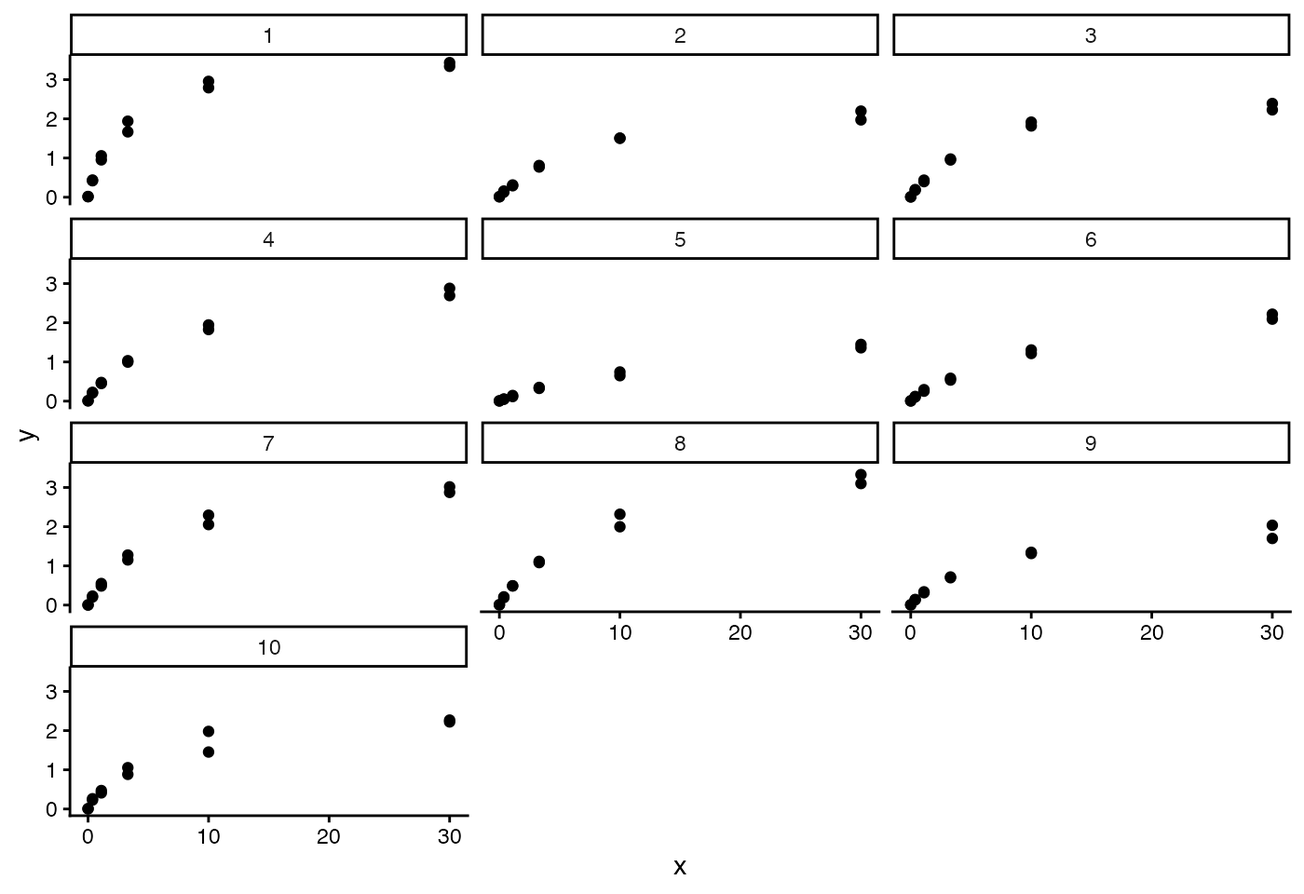
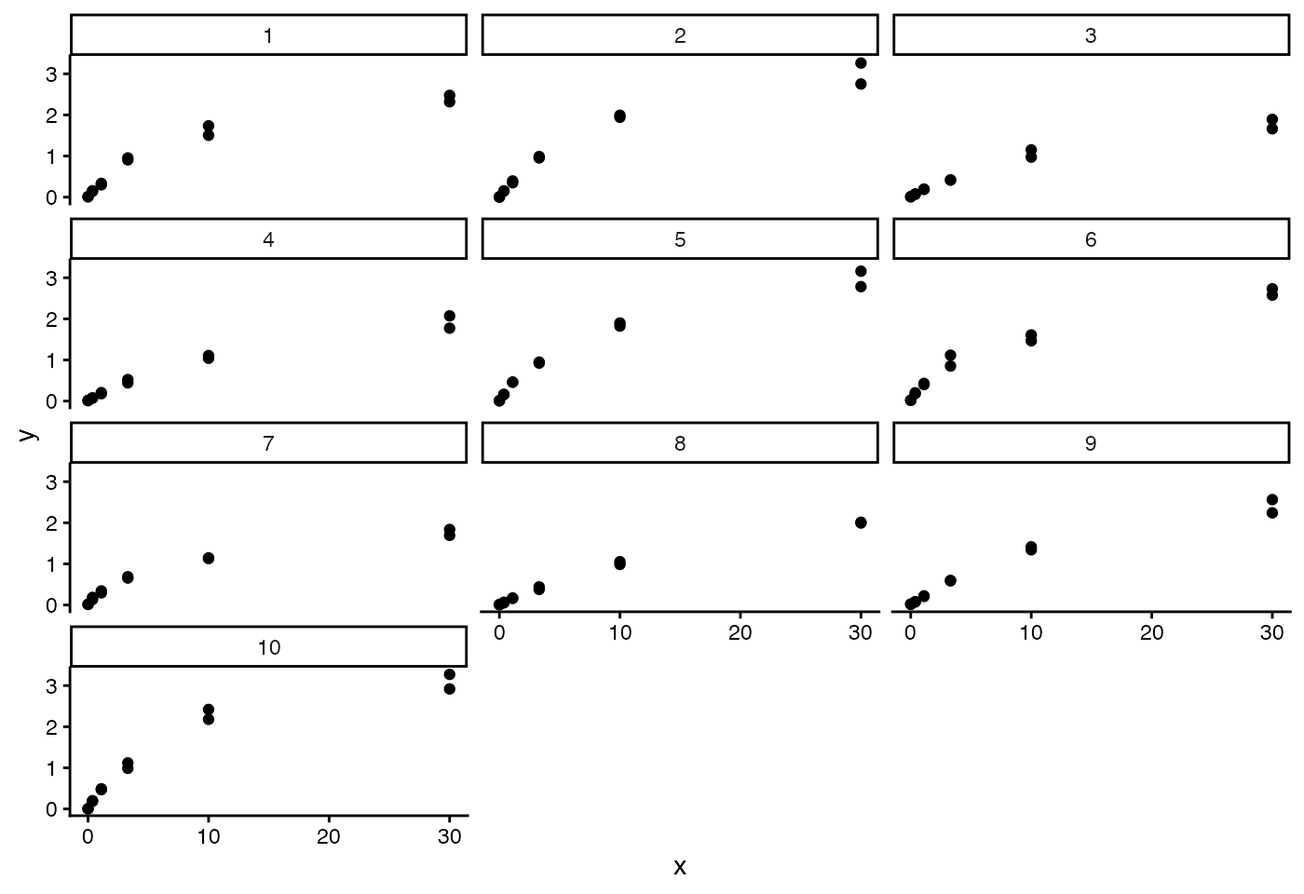
Updated site

diff --git a/docs/articles/estimation_on_simulated_data_simple.html b/docs/articles/estimation_on_simulated_data_simple.html
@@ -101,46 +101,34 @@ proxy measurement y (e.g. OD values).</p>
 <div class="section level2">
 <h2 id="simulate-data">Simulate data<a class="anchor" aria-label="anchor" href="#simulate-data"></a>
 </h2>
-<p>We simulate data, giving us a list with seven things in it. (If we
-were using real data instead of simulated data, we would simply need to
-create the <code>df_sam</code> and <code>df_cal</code> dataframes
-ourselves instead of running <code><a href="../reference/simulate_data.html">simulate_data()</a></code> below. The
-documentation for <code><a href="../reference/wrangle_data.html">wrangle_data()</a></code> explains what columns
-these dataframes require, and how sets of covariates for regression
-models are specified using the arguments
-<code>x_mix_pred_vars_names</code>, <code>p_pos_binary_pred_vars</code>,
-<code>f_pred_vars_names</code>.)</p>
+<p>We simulate data. If we were using real data instead of simulated
+data, we would simply need to create the <code>df_sam</code> and
+<code>df_cal</code> dataframes ourselves instead of running
+<code><a href="../reference/simulate_data.html">simulate_data()</a></code> below. The documentation for
+<code><a href="../reference/wrangle_data.html">wrangle_data()</a></code> explains what columns these dataframes
+require.</p>
 <div class="sourceCode" id="cb2"><pre class="downlit sourceCode r">
-<code class="sourceCode R"><span><span class="va">data</span> <span class="op">&lt;-</span> <span class="fu"><a href="../reference/simulate_data.html">simulate_data</a></span><span class="op">(</span>seed <span class="op">=</span> <span class="fl">1234</span>,</span>
-<span>                      num_sam_per_plate <span class="op">=</span> <span class="fl">100</span><span class="op">)</span></span>
+<code class="sourceCode R"><span><span class="va">data</span> <span class="op">&lt;-</span> <span class="fu"><a href="../reference/simulate_data.html">simulate_data</a></span><span class="op">(</span>seed <span class="op">=</span> <span class="fl">12345</span><span class="op">)</span></span>
 <span><span class="va">df_sam</span> <span class="op">&lt;-</span> <span class="va">data</span><span class="op">$</span><span class="va">df_sam</span></span>
 <span><span class="va">df_cal</span> <span class="op">&lt;-</span> <span class="va">data</span><span class="op">$</span><span class="va">df_cal</span></span>
 <span><span class="va">df_plate</span> <span class="op">&lt;-</span> <span class="va">data</span><span class="op">$</span><span class="va">df_plate</span></span>
-<span><span class="va">param_true_values_list</span> <span class="op">&lt;-</span> <span class="va">data</span><span class="op">$</span><span class="va">params</span></span>
-<span><span class="va">f_pred_vars_names</span> <span class="op">&lt;-</span> <span class="va">data</span><span class="op">$</span><span class="va">f_pred_vars_names</span></span>
-<span><span class="va">x_mix_pred_vars_names</span> <span class="op">&lt;-</span> <span class="va">data</span><span class="op">$</span><span class="va">x_mix_pred_vars_names</span></span>
-<span><span class="va">p_pos_binary_pred_vars</span> <span class="op">&lt;-</span> <span class="va">data</span><span class="op">$</span><span class="va">p_pos_binary_pred_vars</span></span></code></pre></div>
+<span><span class="va">param_true_values_list</span> <span class="op">&lt;-</span> <span class="va">data</span><span class="op">$</span><span class="va">params</span></span></code></pre></div>
 <p>Plot the simulated calibration data (one facet per plate):</p>
 <div class="sourceCode" id="cb3"><pre class="downlit sourceCode r">
 <code class="sourceCode R"><span><span class="fu"><a href="https://ggplot2.tidyverse.org/reference/ggplot.html" class="external-link">ggplot</a></span><span class="op">(</span><span class="va">df_cal</span><span class="op">)</span> <span class="op">+</span></span>
 <span>  <span class="fu"><a href="https://ggplot2.tidyverse.org/reference/geom_point.html" class="external-link">geom_point</a></span><span class="op">(</span><span class="fu"><a href="https://ggplot2.tidyverse.org/reference/aes.html" class="external-link">aes</a></span><span class="op">(</span>x <span class="op">=</span> <span class="va">x</span>, y <span class="op">=</span> <span class="va">y</span><span class="op">)</span><span class="op">)</span> <span class="op">+</span></span>
 <span>  <span class="fu"><a href="https://ggplot2.tidyverse.org/reference/facet_wrap.html" class="external-link">facet_wrap</a></span><span class="op">(</span><span class="op">~</span><span class="va">plate</span>, ncol <span class="op">=</span> <span class="fl">3</span><span class="op">)</span> </span></code></pre></div>
 <p><img src="estimation_on_simulated_data_simple_files/figure-html/plot_data_cal-1.png" class="r-plt" alt="" width="700"></p>
-<p>Plot the simulated sample data, histogramming the x and y values, one
-facet for each category of the <code>letter</code> covariate (which
-differ in their x distributions when using default arguments for
-<code><a href="../reference/simulate_data.html">simulate_data()</a></code>):</p>
+<p>Plot the simulated sample data, histogramming the x and y values:</p>
 <div class="sourceCode" id="cb4"><pre class="downlit sourceCode r">
 <code class="sourceCode R"><span><span class="fu"><a href="https://ggplot2.tidyverse.org/reference/ggplot.html" class="external-link">ggplot</a></span><span class="op">(</span><span class="va">df_sam</span><span class="op">)</span> <span class="op">+</span></span>
-<span>  <span class="fu"><a href="https://ggplot2.tidyverse.org/reference/geom_histogram.html" class="external-link">geom_histogram</a></span><span class="op">(</span><span class="fu"><a href="https://ggplot2.tidyverse.org/reference/aes.html" class="external-link">aes</a></span><span class="op">(</span>x <span class="op">=</span> <span class="va">x</span><span class="op">)</span>, bins <span class="op">=</span> <span class="fl">20</span><span class="op">)</span> <span class="op">+</span></span>
-<span>  <span class="fu"><a href="https://ggplot2.tidyverse.org/reference/facet_wrap.html" class="external-link">facet_wrap</a></span><span class="op">(</span><span class="op">~</span><span class="va">letter</span><span class="op">)</span> <span class="op">+</span></span>
+<span>  <span class="fu"><a href="https://ggplot2.tidyverse.org/reference/geom_histogram.html" class="external-link">geom_histogram</a></span><span class="op">(</span><span class="fu"><a href="https://ggplot2.tidyverse.org/reference/aes.html" class="external-link">aes</a></span><span class="op">(</span>x <span class="op">=</span> <span class="va">x</span><span class="op">)</span>, bins <span class="op">=</span> <span class="fl">30</span><span class="op">)</span> <span class="op">+</span></span>
 <span>  <span class="fu"><a href="https://ggplot2.tidyverse.org/reference/scale_continuous.html" class="external-link">scale_x_log10</a></span><span class="op">(</span><span class="op">)</span></span></code></pre></div>
 <p><img src="estimation_on_simulated_data_simple_files/figure-html/plot_data_sam_x-1.png" class="r-plt" alt="" width="700"></p>
 <div class="sourceCode" id="cb5"><pre class="downlit sourceCode r">
 <code class="sourceCode R"><span><span class="co"># With default values, y is rarely negative; restrict to positive for visibility</span></span>
 <span><span class="fu"><a href="https://ggplot2.tidyverse.org/reference/ggplot.html" class="external-link">ggplot</a></span><span class="op">(</span><span class="va">df_sam</span> <span class="op"><a href="https://magrittr.tidyverse.org/reference/pipe.html" class="external-link">%&gt;%</a></span> <span class="fu"><a href="https://dplyr.tidyverse.org/reference/filter.html" class="external-link">filter</a></span><span class="op">(</span><span class="va">y</span> <span class="op">&gt;</span> <span class="fl">0</span><span class="op">)</span><span class="op">)</span> <span class="op">+</span></span>
-<span>  <span class="fu"><a href="https://ggplot2.tidyverse.org/reference/geom_histogram.html" class="external-link">geom_histogram</a></span><span class="op">(</span><span class="fu"><a href="https://ggplot2.tidyverse.org/reference/aes.html" class="external-link">aes</a></span><span class="op">(</span>x <span class="op">=</span> <span class="va">y</span><span class="op">)</span>, bins <span class="op">=</span> <span class="fl">20</span><span class="op">)</span> <span class="op">+</span></span>
-<span>  <span class="fu"><a href="https://ggplot2.tidyverse.org/reference/facet_wrap.html" class="external-link">facet_wrap</a></span><span class="op">(</span><span class="op">~</span><span class="va">letter</span><span class="op">)</span> <span class="op">+</span></span>
+<span>  <span class="fu"><a href="https://ggplot2.tidyverse.org/reference/geom_histogram.html" class="external-link">geom_histogram</a></span><span class="op">(</span><span class="fu"><a href="https://ggplot2.tidyverse.org/reference/aes.html" class="external-link">aes</a></span><span class="op">(</span>x <span class="op">=</span> <span class="va">y</span><span class="op">)</span>, bins <span class="op">=</span> <span class="fl">30</span><span class="op">)</span> <span class="op">+</span></span>
 <span>  <span class="fu"><a href="https://ggplot2.tidyverse.org/reference/scale_continuous.html" class="external-link">scale_x_log10</a></span><span class="op">(</span><span class="op">)</span></span></code></pre></div>
 <p><img src="estimation_on_simulated_data_simple_files/figure-html/plot_data_sam_y-1.png" class="r-plt" alt="" width="700"></p>
 </div>
@@ -157,11 +145,7 @@ differ in their x distributions when using default arguments for
 <span>  df_cal <span class="op">=</span> <span class="va">df_cal</span>, </span>
 <span>  df_priors_scalars <span class="op">=</span> <span class="va">priors_list</span><span class="op">$</span><span class="va">df_priors_scalars</span>,</span>
 <span>  df_priors_vectors <span class="op">=</span> <span class="va">priors_list</span><span class="op">$</span><span class="va">df_priors_vectors</span>, </span>
-<span>  rho_prior_eta <span class="op">=</span> <span class="va">priors_list</span><span class="op">$</span><span class="va">rho_prior_eta</span>, </span>
-<span>  x_mix_pred_vars_names <span class="op">=</span> <span class="va">x_mix_pred_vars_names</span>, </span>
-<span>  p_pos_binary_pred_vars <span class="op">=</span> <span class="va">p_pos_binary_pred_vars</span>,</span>
-<span>  f_pred_vars_names <span class="op">=</span> <span class="va">f_pred_vars_names</span></span>
-<span>  <span class="op">)</span></span></code></pre></div>
+<span>  rho_prior_eta <span class="op">=</span> <span class="va">priors_list</span><span class="op">$</span><span class="va">rho_prior_eta</span><span class="op">)</span></span></code></pre></div>
 <p>Update our dataframes for samples, calibrators and plates with the
 extra columns we just added (which introduce integer indexing); this can
 be helpful later if we want to combine results and data.</p>
@@ -174,13 +158,10 @@ from the prior. (We wrap inside <code><a href="https://rdrr.io/r/utils/capture.o
 suppress Stan’s insistent printing of information.)</p>
 <div class="sourceCode" id="cb9"><pre class="downlit sourceCode r">
 <code class="sourceCode R"><span><span class="fu"><a href="https://rdrr.io/r/utils/capture.output.html" class="external-link">capture.output</a></span><span class="op">(</span><span class="op">{</span></span>
-<span><span class="va">df_posterior</span> <span class="op">&lt;-</span> <span class="fu"><a href="../reference/run_stan.html">run_stan</a></span><span class="op">(</span></span>
-<span>  data_wrangled <span class="op">=</span> <span class="va">data_wrangled</span>,</span>
-<span>  distribution <span class="op">=</span> <span class="st">"posterior"</span><span class="op">)</span></span>
+<span><span class="va">df_posterior</span> <span class="op">&lt;-</span> <span class="fu"><a href="../reference/run_stan.html">run_stan</a></span><span class="op">(</span>data_wrangled <span class="op">=</span> <span class="va">data_wrangled</span><span class="op">)</span></span>
 <span></span>
-<span><span class="va">df_prior</span> <span class="op">&lt;-</span> <span class="fu"><a href="../reference/run_stan.html">run_stan</a></span><span class="op">(</span></span>
-<span>  data_wrangled <span class="op">=</span> <span class="va">data_wrangled</span>,</span>
-<span>  distribution <span class="op">=</span> <span class="st">"prior"</span><span class="op">)</span></span>
+<span><span class="va">df_prior</span> <span class="op">&lt;-</span> <span class="fu"><a href="../reference/run_stan.html">run_stan</a></span><span class="op">(</span>data_wrangled <span class="op">=</span> <span class="va">data_wrangled</span>, </span>
+<span>                     distribution <span class="op">=</span> <span class="st">"prior"</span><span class="op">)</span></span>
 <span><span class="op">}</span><span class="op">)</span></span></code></pre></div>
 </div>
 <div class="section level2">
@@ -200,13 +181,13 @@ prior and true value, demonstrating that the posterior moves away from
 the prior toward the true value, as it should for a correctly
 implemented model with informative data. One should always test this. We
 do this using <code>plot_posterior()</code> from our package
-<code>mastiff</code>, just for nine parameters for better visibility
+<code>mastiff</code>, just for 16 parameters for better visibility
 within Rmarkdown:</p>
 <div class="sourceCode" id="cb11"><pre class="downlit sourceCode r">
 <code class="sourceCode R"><span><span class="fu">mastiff</span><span class="fu">::</span><span class="fu"><a href="https://bdi-pathogens.github.io/mastiff/reference/plot_posterior.html" class="external-link">plot_posterior</a></span><span class="op">(</span></span>
 <span>    posterior_samples <span class="op">=</span> <span class="va">df_posterior</span>,</span>
 <span>    prior_samples     <span class="op">=</span> <span class="va">df_prior</span>,</span>
-<span>    params_desired <span class="op">=</span> <span class="fu"><a href="https://rdrr.io/r/base/names.html" class="external-link">names</a></span><span class="op">(</span><span class="va">df_prior</span><span class="op">)</span><span class="op">[</span><span class="fl">1</span><span class="op">:</span><span class="fl">9</span><span class="op">]</span>,</span>
+<span>    params_desired <span class="op">=</span> <span class="fu"><a href="https://rdrr.io/r/base/names.html" class="external-link">names</a></span><span class="op">(</span><span class="va">df_prior</span><span class="op">)</span><span class="op">[</span><span class="fl">1</span><span class="op">:</span><span class="fl">16</span><span class="op">]</span>,</span>
 <span>    true_param_values <span class="op">=</span> <span class="va">param_true_values_vector</span>,</span>
 <span>    skip_stanfit_to_dt <span class="op">=</span> <span class="cn">TRUE</span><span class="op">)</span></span></code></pre></div>
 <p><img src="estimation_on_simulated_data_simple_files/figure-html/plot_posterior_prior-1.png" class="r-plt" alt="" width="95%"></p>
@@ -246,54 +227,19 @@ effects.</p>
 <p><code>df_posterior</code> has columns named
 <code>y_sam_sim_unconditional[1]</code>,
 <code>y_sam_sim_unconditional[2]</code> etc. which contain posterior
-predicted y values for new set of sampled individuals with the same
-distribution of covariates (i.e. partitioned into the same
-subpopulations, in this example based on a single covariate
-<code>letter</code>) as in the dataset analysed. The integer in square
-brackets indexes the sample replicate as in
-<code>df_sam$which_sam_rep</code>; we merge <code>df_sam</code> into
-<code>df_posterior</code> to associated each predicted <code>y</code>
-value with the appropriate subpopulation. We plot the empirical
-subpopulation-level distributions of y values, and the posterior
-predictive distribution of subpopulation-level distributions of y
-values. We use a log scale for y even though it can be negative, because
-with our default parameters it’s only rarely negative and a log scale is
-clearer. We make both a spline density plot and also a histogram
-(splines are easier to see but the algorithm may make mistakes on
-fitting a smoothed distribution).</p>
+predicted y values for new set of sampled individuals. The integer in
+square brackets indexes the sample replicate as in
+<code>df_sam$which_sam_rep</code>. We plot the empirical
+population-level distribution of y values (in blue), and the posterior
+predictive distribution of the same thing (in black, one line per sample
+from the posterior predictive distribution).</p>
 <div class="sourceCode" id="cb13"><pre class="downlit sourceCode r">
 <code class="sourceCode R"><span><span class="va">df_y_sim</span> <span class="op">&lt;-</span> <span class="va">df_posterior</span> <span class="op"><a href="https://magrittr.tidyverse.org/reference/pipe.html" class="external-link">%&gt;%</a></span></span>
 <span>  <span class="fu"><a href="https://dplyr.tidyverse.org/reference/select.html" class="external-link">select</a></span><span class="op">(</span><span class="fu"><a href="https://tidyselect.r-lib.org/reference/starts_with.html" class="external-link">starts_with</a></span><span class="op">(</span><span class="st">"y_sam_sim_unconditional["</span><span class="op">)</span><span class="op">)</span> <span class="op"><a href="https://magrittr.tidyverse.org/reference/pipe.html" class="external-link">%&gt;%</a></span></span>
 <span>  <span class="fu"><a href="https://dplyr.tidyverse.org/reference/mutate.html" class="external-link">mutate</a></span><span class="op">(</span>sample <span class="op">=</span> <span class="fu"><a href="https://dplyr.tidyverse.org/reference/row_number.html" class="external-link">row_number</a></span><span class="op">(</span><span class="op">)</span><span class="op">)</span> <span class="op"><a href="https://magrittr.tidyverse.org/reference/pipe.html" class="external-link">%&gt;%</a></span></span>
 <span>  <span class="fu"><a href="https://tidyr.tidyverse.org/reference/pivot_longer.html" class="external-link">pivot_longer</a></span><span class="op">(</span><span class="op">-</span><span class="fu"><a href="https://rdrr.io/r/base/c.html" class="external-link">c</a></span><span class="op">(</span><span class="st">"sample"</span><span class="op">)</span>, names_to <span class="op">=</span> <span class="st">"param"</span><span class="op">)</span> <span class="op"><a href="https://magrittr.tidyverse.org/reference/pipe.html" class="external-link">%&gt;%</a></span></span>
-<span>  <span class="fu">tidyr</span><span class="fu">::</span><span class="fu"><a href="https://tidyr.tidyverse.org/reference/extract.html" class="external-link">extract</a></span><span class="op">(</span><span class="va">param</span>, </span>
-<span>               into <span class="op">=</span> <span class="st">"which_sam_rep"</span>, </span>
-<span>               regex <span class="op">=</span> <span class="st">"y_sam_sim_unconditional\\[([0-9]+)\\]"</span><span class="op">)</span> <span class="op"><a href="https://magrittr.tidyverse.org/reference/pipe.html" class="external-link">%&gt;%</a></span></span>
-<span>  <span class="fu"><a href="https://dplyr.tidyverse.org/reference/mutate.html" class="external-link">mutate</a></span><span class="op">(</span>which_sam_rep <span class="op">=</span> <span class="fu"><a href="https://rdrr.io/r/base/integer.html" class="external-link">as.integer</a></span><span class="op">(</span><span class="va">which_sam_rep</span><span class="op">)</span><span class="op">)</span> <span class="op"><a href="https://magrittr.tidyverse.org/reference/pipe.html" class="external-link">%&gt;%</a></span></span>
-<span>  <span class="fu"><a href="https://dplyr.tidyverse.org/reference/mutate-joins.html" class="external-link">left_join</a></span><span class="op">(</span><span class="va">df_sam</span>, by <span class="op">=</span> <span class="st">"which_sam_rep"</span><span class="op">)</span> <span class="op"><a href="https://magrittr.tidyverse.org/reference/pipe.html" class="external-link">%&gt;%</a></span></span>
 <span>  <span class="fu"><a href="https://dplyr.tidyverse.org/reference/mutate.html" class="external-link">mutate</a></span><span class="op">(</span>value <span class="op">=</span> <span class="fu"><a href="https://rdrr.io/r/base/Log.html" class="external-link">log10</a></span><span class="op">(</span><span class="va">value</span><span class="op">)</span><span class="op">)</span></span>
 <span><span class="fu"><a href="https://ggplot2.tidyverse.org/reference/ggplot.html" class="external-link">ggplot</a></span><span class="op">(</span><span class="op">)</span> <span class="op">+</span></span>
-<span>  <span class="fu"><a href="https://ggplot2.tidyverse.org/reference/geom_path.html" class="external-link">geom_step</a></span><span class="op">(</span>data <span class="op">=</span> <span class="va">df_y_sim</span>,</span>
-<span>            <span class="fu"><a href="https://ggplot2.tidyverse.org/reference/aes.html" class="external-link">aes</a></span><span class="op">(</span>x <span class="op">=</span> <span class="va">value</span>,</span>
-<span>                y <span class="op">=</span> <span class="fu"><a href="https://ggplot2.tidyverse.org/reference/aes_eval.html" class="external-link">after_stat</a></span><span class="op">(</span><span class="va">density</span><span class="op">)</span>,</span>
-<span>                group <span class="op">=</span> <span class="va">sample</span><span class="op">)</span>,</span>
-<span>            stat<span class="op">=</span><span class="st">"bin"</span>,</span>
-<span>            color<span class="op">=</span><span class="st">"black"</span>,</span>
-<span>            bins <span class="op">=</span> <span class="fl">60</span>,</span>
-<span>            alpha <span class="op">=</span> <span class="fl">0.1</span><span class="op">)</span> <span class="op">+</span></span>
-<span>  <span class="fu"><a href="https://ggplot2.tidyverse.org/reference/geom_path.html" class="external-link">geom_step</a></span><span class="op">(</span>data <span class="op">=</span> <span class="va">df_sam</span>,</span>
-<span>            <span class="fu"><a href="https://ggplot2.tidyverse.org/reference/aes.html" class="external-link">aes</a></span><span class="op">(</span>x <span class="op">=</span> <span class="fu"><a href="https://rdrr.io/r/base/Log.html" class="external-link">log10</a></span><span class="op">(</span><span class="va">y</span><span class="op">)</span>, <span class="co"># y,</span></span>
-<span>                y <span class="op">=</span> <span class="fu"><a href="https://ggplot2.tidyverse.org/reference/aes_eval.html" class="external-link">after_stat</a></span><span class="op">(</span><span class="va">density</span><span class="op">)</span><span class="op">)</span>,</span>
-<span>            stat<span class="op">=</span><span class="st">"bin"</span>,</span>
-<span>            bins <span class="op">=</span> <span class="fl">60</span>,</span>
-<span>            color<span class="op">=</span><span class="st">"blue"</span><span class="op">)</span> <span class="op">+</span></span>
-<span>  <span class="fu"><a href="https://ggplot2.tidyverse.org/reference/coord_cartesian.html" class="external-link">coord_cartesian</a></span><span class="op">(</span>expand <span class="op">=</span> <span class="cn">F</span><span class="op">)</span> <span class="op">+</span></span>
-<span>  <span class="fu"><a href="https://ggplot2.tidyverse.org/reference/facet_wrap.html" class="external-link">facet_wrap</a></span><span class="op">(</span><span class="op">~</span><span class="va">letter</span><span class="op">)</span> <span class="op">+</span></span>
-<span>  <span class="fu"><a href="https://ggplot2.tidyverse.org/reference/labs.html" class="external-link">labs</a></span><span class="op">(</span>x <span class="op">=</span> <span class="st">"log10(OD value)"</span>,</span>
-<span>       y <span class="op">=</span> <span class="st">"probability density"</span><span class="op">)</span></span></code></pre></div>
-<p><img src="estimation_on_simulated_data_simple_files/figure-html/plot_posterior_retrodictive-1.png" class="r-plt" alt="" width="700"></p>
-<div class="sourceCode" id="cb14"><pre class="downlit sourceCode r">
-<code class="sourceCode R"><span><span class="fu"><a href="https://ggplot2.tidyverse.org/reference/ggplot.html" class="external-link">ggplot</a></span><span class="op">(</span><span class="op">)</span> <span class="op">+</span></span>
 <span>  <span class="fu"><a href="https://ggplot2.tidyverse.org/reference/geom_density.html" class="external-link">geom_density</a></span><span class="op">(</span>data <span class="op">=</span> <span class="va">df_y_sim</span>,</span>
 <span>               <span class="fu"><a href="https://ggplot2.tidyverse.org/reference/aes.html" class="external-link">aes</a></span><span class="op">(</span>x <span class="op">=</span> <span class="va">value</span>,</span>
 <span>                   group <span class="op">=</span> <span class="va">sample</span><span class="op">)</span>,</span>
@@ -302,10 +248,9 @@ fitting a smoothed distribution).</p>
 <span>            <span class="fu"><a href="https://ggplot2.tidyverse.org/reference/aes.html" class="external-link">aes</a></span><span class="op">(</span>x <span class="op">=</span> <span class="fu"><a href="https://rdrr.io/r/base/Log.html" class="external-link">log10</a></span><span class="op">(</span><span class="va">y</span><span class="op">)</span><span class="op">)</span>,</span>
 <span>            color<span class="op">=</span><span class="st">"blue"</span><span class="op">)</span> <span class="op">+</span></span>
 <span>  <span class="fu"><a href="https://ggplot2.tidyverse.org/reference/coord_cartesian.html" class="external-link">coord_cartesian</a></span><span class="op">(</span>expand <span class="op">=</span> <span class="cn">F</span><span class="op">)</span> <span class="op">+</span></span>
-<span>  <span class="fu"><a href="https://ggplot2.tidyverse.org/reference/facet_wrap.html" class="external-link">facet_wrap</a></span><span class="op">(</span><span class="op">~</span><span class="va">letter</span><span class="op">)</span> <span class="op">+</span></span>
 <span>  <span class="fu"><a href="https://ggplot2.tidyverse.org/reference/labs.html" class="external-link">labs</a></span><span class="op">(</span>x <span class="op">=</span> <span class="st">"log10(OD value)"</span>,</span>
 <span>       y <span class="op">=</span> <span class="st">"probability density"</span><span class="op">)</span></span></code></pre></div>
-<p><img src="estimation_on_simulated_data_simple_files/figure-html/plot_posterior_retrodictive-2.png" class="r-plt" alt="" width="700"></p>
+<p><img src="estimation_on_simulated_data_simple_files/figure-html/plot_posterior_retrodictive-1.png" class="r-plt" alt="" width="700"></p>
 <p><code>df_posterior</code> has columns named
 <code>p_sam_is_pos[1]</code>, <code>p_sam_is_pos[2]</code> etc. which
 contain the probability that sample 1, 2 etc. is positive given its
@@ -313,7 +258,7 @@ observed y values. Calculate the posterior mean for each of these
 quantities, and then plot the distribution over individuals of these
 values, stratified by true serostatus. This gives a sense of the model’s
 accuracy and confidence in estimating serostatus.</p>
-<div class="sourceCode" id="cb15"><pre class="downlit sourceCode r">
+<div class="sourceCode" id="cb14"><pre class="downlit sourceCode r">
 <code class="sourceCode R"><span><span class="va">df_prob_pos</span> <span class="op">&lt;-</span> <span class="va">df_posterior</span> <span class="op"><a href="https://magrittr.tidyverse.org/reference/pipe.html" class="external-link">%&gt;%</a></span></span>
 <span>  <span class="fu"><a href="https://dplyr.tidyverse.org/reference/select.html" class="external-link">select</a></span><span class="op">(</span><span class="fu"><a href="https://tidyselect.r-lib.org/reference/starts_with.html" class="external-link">starts_with</a></span><span class="op">(</span><span class="st">"p_sam_is_pos["</span><span class="op">)</span><span class="op">)</span></span>
 <span><span class="va">df_prob_pos</span> <span class="op">&lt;-</span> <span class="va">df_prob_pos</span><span class="op">[</span>, <span class="fu"><a href="https://rdrr.io/r/base/lapply.html" class="external-link">lapply</a></span><span class="op">(</span><span class="va">.SD</span>, <span class="va">mean</span><span class="op">)</span><span class="op">]</span></span>

diff --git a/docs/reference/simulate_data.html b/docs/reference/simulate_data.html
@@ -76,15 +76,13 @@
 <span>  rho <span class="op">=</span> <span class="fu"><a href="https://rdrr.io/r/base/matrix.html" class="external-link">matrix</a></span><span class="op">(</span><span class="fu"><a href="https://rdrr.io/r/base/c.html" class="external-link">c</a></span><span class="op">(</span><span class="fl">1</span>, <span class="fl">0</span>, <span class="fl">0</span>, <span class="fl">0</span>, <span class="fl">0</span>, <span class="fl">1</span>, <span class="fl">0</span>, <span class="fl">0</span>, <span class="fl">0</span>, <span class="fl">0</span>, <span class="fl">1</span>, <span class="fl">0</span>, <span class="fl">0</span>, <span class="fl">0</span>, <span class="fl">0</span>, <span class="fl">1</span><span class="op">)</span>, <span class="fl">4</span>, <span class="fl">4</span>, byrow <span class="op">=</span> <span class="cn">TRUE</span><span class="op">)</span>,</span>
 <span>  f_pred_vars <span class="op">=</span> <span class="fu"><a href="https://rdrr.io/r/base/list.html" class="external-link">list</a></span><span class="op">(</span><span class="op">)</span>,</span>
 <span>  sigma_f_pred_vars <span class="op">=</span> <span class="fu"><a href="https://rdrr.io/r/base/list.html" class="external-link">list</a></span><span class="op">(</span><span class="op">)</span>,</span>
-<span>  x_mix_pred_vars <span class="op">=</span> <span class="fu"><a href="https://rdrr.io/r/base/list.html" class="external-link">list</a></span><span class="op">(</span>p_pos <span class="op">=</span> <span class="fu"><a href="https://rdrr.io/r/base/list.html" class="external-link">list</a></span><span class="op">(</span>letter <span class="op">=</span> <span class="va">letters</span><span class="op">[</span><span class="fl">1</span><span class="op">:</span><span class="fl">4</span><span class="op">]</span><span class="op">)</span>, mu_neg <span class="op">=</span> <span class="fu"><a href="https://rdrr.io/r/base/list.html" class="external-link">list</a></span><span class="op">(</span>letter <span class="op">=</span></span>
-<span>    <span class="va">letters</span><span class="op">[</span><span class="fl">1</span><span class="op">:</span><span class="fl">4</span><span class="op">]</span><span class="op">)</span>, mu_pos <span class="op">=</span> <span class="fu"><a href="https://rdrr.io/r/base/list.html" class="external-link">list</a></span><span class="op">(</span>letter <span class="op">=</span> <span class="va">letters</span><span class="op">[</span><span class="fl">1</span><span class="op">:</span><span class="fl">4</span><span class="op">]</span><span class="op">)</span>, sd_neg <span class="op">=</span> <span class="fu"><a href="https://rdrr.io/r/base/list.html" class="external-link">list</a></span><span class="op">(</span>letter <span class="op">=</span></span>
-<span>    <span class="va">letters</span><span class="op">[</span><span class="fl">1</span><span class="op">:</span><span class="fl">4</span><span class="op">]</span><span class="op">)</span>, sd_pos <span class="op">=</span> <span class="fu"><a href="https://rdrr.io/r/base/list.html" class="external-link">list</a></span><span class="op">(</span>letter <span class="op">=</span> <span class="va">letters</span><span class="op">[</span><span class="fl">1</span><span class="op">:</span><span class="fl">4</span><span class="op">]</span><span class="op">)</span><span class="op">)</span>,</span>
-<span>  x_mix_pred_vars_sds <span class="op">=</span> <span class="fu"><a href="https://rdrr.io/r/base/list.html" class="external-link">list</a></span><span class="op">(</span>p_pos <span class="op">=</span> <span class="fu"><a href="https://rdrr.io/r/base/c.html" class="external-link">c</a></span><span class="op">(</span>letter <span class="op">=</span> <span class="fl">1</span><span class="op">)</span>, mu_neg <span class="op">=</span> <span class="fu"><a href="https://rdrr.io/r/base/c.html" class="external-link">c</a></span><span class="op">(</span>letter <span class="op">=</span> <span class="fl">1</span><span class="op">)</span>, mu_pos <span class="op">=</span></span>
-<span>    <span class="fu"><a href="https://rdrr.io/r/base/c.html" class="external-link">c</a></span><span class="op">(</span>letter <span class="op">=</span> <span class="fl">1</span><span class="op">)</span>, sd_neg <span class="op">=</span> <span class="fu"><a href="https://rdrr.io/r/base/c.html" class="external-link">c</a></span><span class="op">(</span>letter <span class="op">=</span> <span class="fl">0.2</span><span class="op">)</span>, sd_pos <span class="op">=</span> <span class="fu"><a href="https://rdrr.io/r/base/c.html" class="external-link">c</a></span><span class="op">(</span>letter <span class="op">=</span> <span class="fl">0.2</span><span class="op">)</span><span class="op">)</span>,</span>
+<span>  x_mix_pred_vars <span class="op">=</span> <span class="fu"><a href="https://rdrr.io/r/base/list.html" class="external-link">list</a></span><span class="op">(</span><span class="op">)</span>,</span>
+<span>  x_mix_pred_vars_sds <span class="op">=</span> <span class="fu"><a href="https://rdrr.io/r/base/list.html" class="external-link">list</a></span><span class="op">(</span><span class="op">)</span>,</span>
 <span>  x_mix_effects <span class="op">=</span> <span class="cn">NA</span>,</span>
-<span>  p_pos_binary_effects <span class="op">=</span> <span class="fu"><a href="https://rdrr.io/r/base/c.html" class="external-link">c</a></span><span class="op">(</span>boolA <span class="op">=</span> <span class="op">-</span><span class="fl">2</span>, boolB <span class="op">=</span> <span class="fl">0</span>, boolC <span class="op">=</span> <span class="fl">2</span><span class="op">)</span>,</span>
+<span>  p_pos_binary_effects <span class="op">=</span> <span class="fu"><a href="https://rdrr.io/r/base/numeric.html" class="external-link">numeric</a></span><span class="op">(</span><span class="op">)</span>,</span>
 <span>  y_obs_sd_min_log_shift_sd <span class="op">=</span> <span class="fl">0</span>,</span>
-<span>  y_obs_sd_jump_log_shift_sd <span class="op">=</span> <span class="fl">0</span></span>
+<span>  y_obs_sd_jump_log_shift_sd <span class="op">=</span> <span class="fl">0</span>,</span>
+<span>  p_pos_exact <span class="op">=</span> <span class="cn">FALSE</span></span>
 <span><span class="op">)</span></span></code></pre></div>
     </div>
 
@@ -203,22 +201,36 @@ variable.</p></dd>
 
 
 <dt id="arg-x-mix-pred-vars">x_mix_pred_vars<a class="anchor" aria-label="anchor" href="#arg-x-mix-pred-vars"></a></dt>
-<dd><p>a list (whose names are the parameters p_pos, mu_neg,
-mu_pos, sd_neg, sd_pos) of lists (whose names are the names of categorical
-variables) of character vectors (whose values are the different categories
-of a given categorical variable). Each parameter has a regression model
-specified by additively combining its categorical variables. For each
-categorical variable, each sample has one of the categories randomly
-allocated.</p></dd>
+<dd><p>a list (of length between 0 and 5 inclusive; the names
+of the list should be a subset of the 5 parameters <code>p_pos</code>, <code>mu_neg</code>,
+<code>mu_pos</code>, <code>sd_neg</code>, <code>sd_pos</code>) of lists (whose names are the names of
+categorical variables) of character vectors (whose values are the different
+categories of a given categorical variable). Each of the 5 parameters has a
+regression model specified by additively combining its categorical
+variables (or no regression model is used if that parameter is absent from
+the list). For each categorical variable, each sample has one of the
+categories randomly allocated. For example say you set <code>x_mix_pred_vars =</code>
+<code>list(p_pos = list(age = c("0-17", "18-49", "50+"), place = letters[1:4]),</code>
+<code>sd_pos = list(age = c("0-17", "18-49", "50+")))</code>. We randomly assign
+every sample a value of <code>age</code> from the possibilities <code>c("0-17", "18-49",</code>
+<code>"50+")</code>, and a value of <code>place</code> from the possibilities <code>letters[1:4]</code>.
+<code>p_pos</code> varies with <code>age</code> and <code>place</code>; <code>sd_pos</code> varies with <code>age</code>; and
+<code>mu_pos</code>, <code>mu_neg</code> and <code>sd_neg</code> are the same for all individuals. Use of
+this argument must be synchronised with use of <code>x_mix_pred_vars_sds</code>.</p></dd>
 
 
 <dt id="arg-x-mix-pred-vars-sds">x_mix_pred_vars_sds<a class="anchor" aria-label="anchor" href="#arg-x-mix-pred-vars-sds"></a></dt>
-<dd><p>a list (whose names are the parameters p_pos,
-mu_neg, mu_pos, sd_neg, sd_pos) of named numeric vectors (whose names must
-match the categorical variables named in the inner lists of
-<code>x_mix_pred_vars</code>). Each {name, numeric value} pair within one of these
-vectors specifies the scale of variability between the regression
-coefficients for the different categories of named categorical variable.</p></dd>
+<dd><p>a list (whose names match those of
+<code>x_mix_pred_vars</code>) of named numeric vectors (whose names must match the
+categorical variables named in the inner lists of <code>x_mix_pred_vars</code>). Each
+{name, numeric value} pair within one of these vectors specifies the
+scale of variability between the regression coefficients for the different
+categories of named categorical variable. Continuing the same example for
+<code>x_mix_pred_vars</code> above, say you set <code>x_mix_pred_vars_sds = list(p_pos =</code>
+<code>c(age = 1, place = 0.1), sd_pos = c(age = 0.5))</code>. The regression
+coefficients for the effect of each age group on <code>p_pos</code> (or <code>sd_pos</code>) will
+vary with a scale 1 (or 0.5 respectively), and the regression coefficients
+for the effect of each place on <code>p_pos</code> will vary with a scale 0.1.</p></dd>
 
 
 <dt id="arg-x-mix-effects">x_mix_effects<a class="anchor" aria-label="anchor" href="#arg-x-mix-effects"></a></dt>
@@ -261,6 +273,10 @@ y_obs_sd_sam_jump between plates. Beware: such variability is assumed to be
 zero in the inference model, so values greater than the default of zero
 will introduce model misspecification for inference (which may be of
 interest for testing purposes).</p></dd>
+
+
+<dt id="arg-p-pos-exact">p_pos_exact<a class="anchor" aria-label="anchor" href="#arg-p-pos-exact"></a></dt>
+<dd><p>a single logical value: should we simulate exactly a fraction <code>p_pos</code> of samples being positive, as opposed to the default behaviour of each sample having an independent probabiliy <code>p_pos</code> of being positive? This option is only available if no regression model is specified for <code>p_pos</code>.</p></dd>
 
 </dl></div>
     <div id="value">

diff --git a/docs/reference/run_stan.html b/docs/reference/run_stan.html
@@ -59,7 +59,7 @@ estimation of the parameters that generated a given dataset.</p>
     <div class="sourceCode"><pre class="sourceCode r"><code><span><span class="fu">run_stan</span><span class="op">(</span></span>
 <span>  <span class="va">data_wrangled</span>,</span>
 <span>  distribution <span class="op">=</span> <span class="fu"><a href="https://rdrr.io/r/base/c.html" class="external-link">c</a></span><span class="op">(</span><span class="st">"posterior"</span>, <span class="st">"prior"</span><span class="op">)</span>,</span>
-<span>  model <span class="op">=</span> <span class="fu"><a href="https://rdrr.io/r/base/c.html" class="external-link">c</a></span><span class="op">(</span><span class="st">"dvsb"</span>, <span class="st">"dvsb_accidental_blanks"</span>, <span class="st">"dvsb_no_mu_x_predictors"</span><span class="op">)</span>,</span>
+<span>  accidental_blanks <span class="op">=</span> <span class="cn">FALSE</span>,</span>
 <span>  interface <span class="op">=</span> <span class="fu"><a href="https://rdrr.io/r/base/c.html" class="external-link">c</a></span><span class="op">(</span><span class="st">"rstan"</span>, <span class="st">"cmdstanr"</span>, <span class="st">"cmdstan"</span><span class="op">)</span>,</span>
 <span>  params_to_ignore <span class="op">=</span> <span class="fu"><a href="https://rdrr.io/r/base/c.html" class="external-link">c</a></span><span class="op">(</span><span class="st">"lp__"</span>, <span class="st">"rho[1,1]"</span>, <span class="st">"rho[2,2]"</span>, <span class="st">"rho[3,3]"</span>, <span class="st">"rho[4,4]"</span>,</span>
 <span>    <span class="st">"rho[2,1]"</span>, <span class="st">"rho[3,1]"</span>, <span class="st">"rho[4,1]"</span>, <span class="st">"rho[3,2]"</span>, <span class="st">"rho[4,2]"</span>, <span class="st">"rho[4,3]"</span>, <span class="st">"rho.1.1"</span>,</span>
@@ -96,14 +96,10 @@ output by <code><a href="wrangle_data.html">wrangle_data()</a></code></p></dd>
 we sample from? (See the details section of this help.)</p></dd>
 
 
-<dt id="arg-model">model<a class="anchor" aria-label="anchor" href="#arg-model"></a></dt>
-<dd><p>one of <code>"dvsb"</code>, <code>"dvsb_accidental_blanks"</code> or
-<code>"dvsb_no_mu_x_predictors"</code>. <code>dvsb</code> is the main dvsb model;
-<code>dvsb_accidental_blanks</code> is the extended model that allows for the
-possibility that each sample well accidentally contains nothing at all
-(i.e. is blank); <code>dvsb_no_mu_x_predictors</code> is the restricted model in which
-regression models are not specified for the means of the two antibody
-distributions (one for seropositives and one for seronegatives).</p></dd>
+<dt id="arg-accidental-blanks">accidental_blanks<a class="anchor" aria-label="anchor" href="#arg-accidental-blanks"></a></dt>
+<dd><p>a single logical value: should we use the extended
+statistical model that allows for the possibility that each sample well
+accidentally contains nothing at all (i.e. is blank)?</p></dd>
 
 
 <dt id="arg-interface">interface<a class="anchor" aria-label="anchor" href="#arg-interface"></a></dt>
